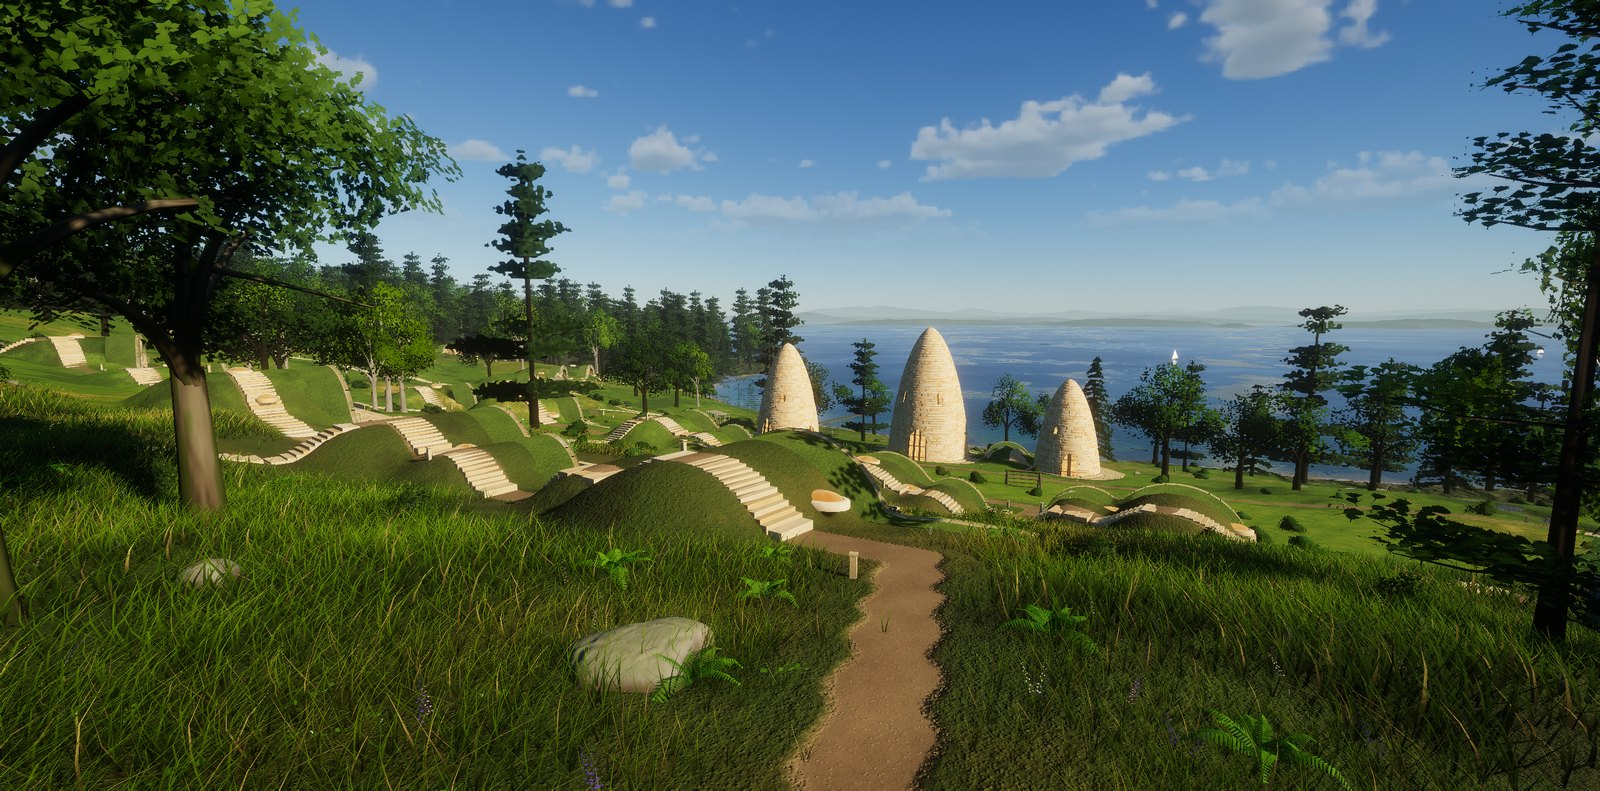
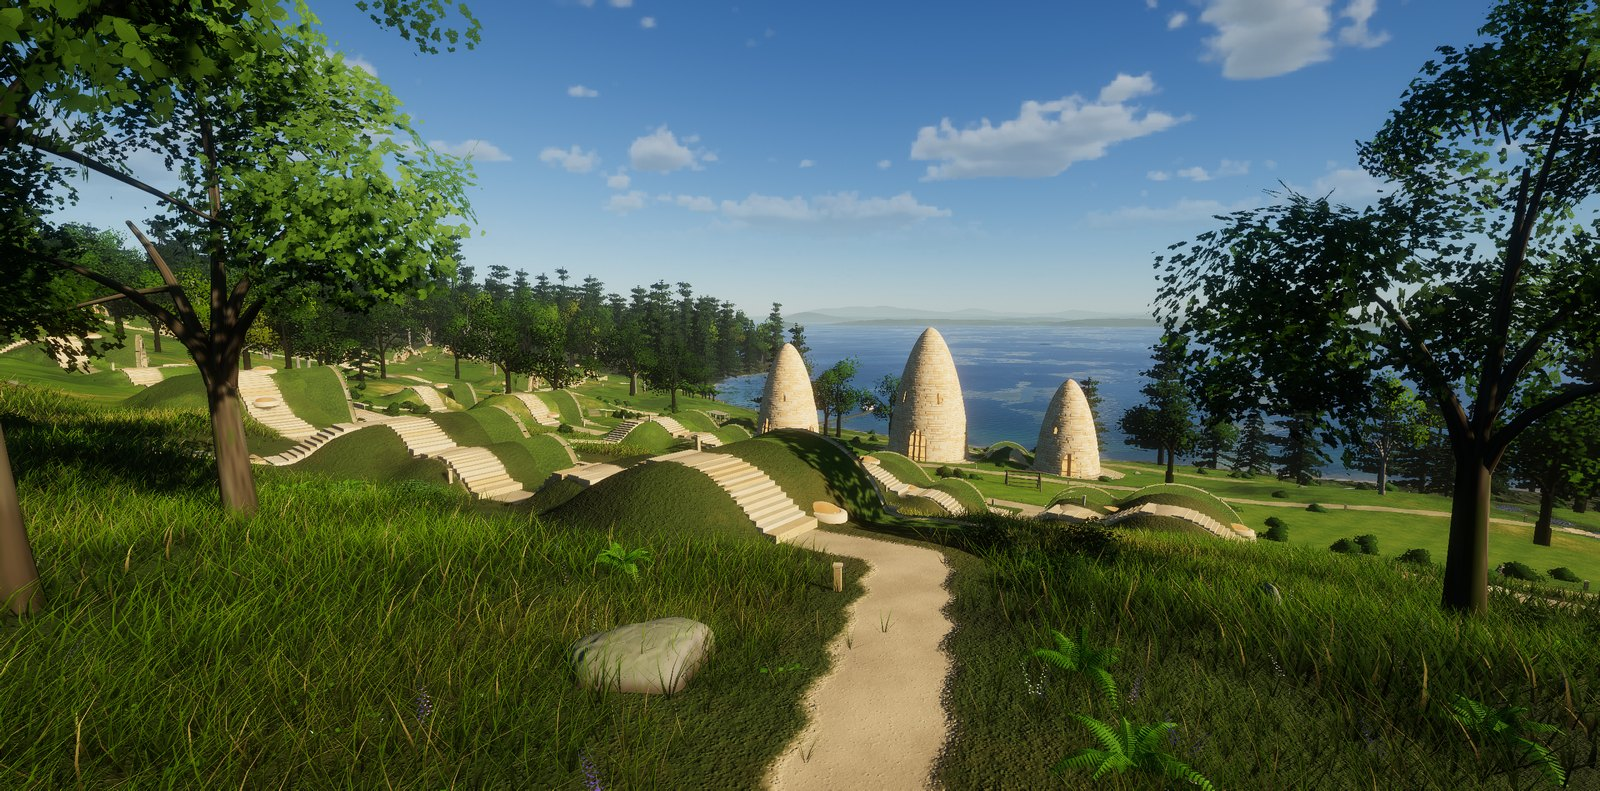
Nine more homes: a fourth row on each hillside, one more west of the stream
The layout image's hillsides are lined with homes; ours had three rows of five
on hillside A and short rows on B, leaving wide empty meadow. Row 4 under the
woods on A (five homes), row 4 on B (three) and a third home west of the stream,
with stair walks up to them and the clearing widened to take them. Debug views
row4 and hillB look at the new rows; key art and screenshots re-rendered (the
opening view is now framed by two trees).

diff --git a/src/world/settlement/Plan.js b/src/world/settlement/Plan.js
@@ -33,9 +33,16 @@ export const HOMES = [
 	{ id: 'A3c', x: 380, z: - 412, yaw: - 0.04, span: 7.0, rise: 3.8, depth: 9, side: [ [ 6.6, 4.0, 2.6 ] ], terrace: 5, skylights: 2 },
 	{ id: 'A3d', x: 407, z: - 414, yaw: - 0.1, span: 8.0, rise: 4.2, depth: 9.5, side: [], terrace: 5.5, skylights: 2 },
 	{ id: 'A3e', x: 434, z: - 418, yaw: - 0.18, span: 7.4, rise: 4.0, depth: 9, side: [ [ - 7.0, 4.2, 2.6 ] ], terrace: 5, skylights: 1 },
+	// ---- hillside A, row 4 (~36-45 m), the top row under the woods
+	{ id: 'A4a', x: 338, z: - 444, yaw: 0.0, span: 7.8, rise: 4.1, depth: 9, side: [ [ 7.2, 4.2, 2.7 ] ], terrace: 5, skylights: 2 },
+	{ id: 'A4b', x: 366, z: - 447, yaw: - 0.25, span: 7.2, rise: 3.9, depth: 9, side: [ [ - 6.8, 4.0, 2.6 ] ], terrace: 5, skylights: 2, seam: true },
+	{ id: 'A4c', x: 394, z: - 449, yaw: 0.12, span: 8.4, rise: 4.4, depth: 10, side: [ [ - 7.6, 4.2, 2.7 ], [ 7.6, 4.2, 2.7 ] ], terrace: 5.5, skylights: 3 },
+	{ id: 'A4d', x: 422, z: - 451, yaw: - 0.2, span: 7.4, rise: 4.0, depth: 9, side: [ [ 6.9, 4.0, 2.6 ] ], terrace: 5, skylights: 2 },
+	{ id: 'A4e', x: 448, z: - 454, yaw: - 0.25, span: 7.0, rise: 3.8, depth: 8.5, side: [], terrace: 5, skylights: 1, seam: true },
 	// ---- hillside A west of the stream, facing south-east over the pond
 	{ id: 'AWa', x: 226, z: - 356, yaw: 0.38, span: 7.6, rise: 4.0, depth: 9, side: [ [ 7.0, 4.0, 2.6 ] ], terrace: 5.5, skylights: 2, seam: true },
 	{ id: 'AWb', x: 238, z: - 392, yaw: 0.3, span: 8.0, rise: 4.2, depth: 9.5, side: [ [ - 7.2, 4.2, 2.7 ] ], terrace: 5, skylights: 2 },
+	{ id: 'AWc', x: 262, z: - 428, yaw: - 0.25, span: 7.6, rise: 4.0, depth: 9, side: [ [ 6.8, 4.0, 2.6 ] ], terrace: 5, skylights: 2 },
 	// ---- hillside B, facing south-west over the gardens and the cove
 	{ id: 'B1a', x: 449, z: - 304, yaw: - 0.72, span: 7.6, rise: 4.0, depth: 9, side: [ [ 7.0, 4.0, 2.6 ] ], terrace: 5.5, skylights: 2 },
 	{ id: 'B1b', x: 470, z: - 281, yaw: - 0.8, span: 8.2, rise: 4.3, depth: 9.5, side: [ [ - 7.4, 4.2, 2.7 ] ], terrace: 6, skylights: 2, seam: true },
@@ -45,6 +52,9 @@ export const HOMES = [
 	{ id: 'B2c', x: 538, z: - 283, yaw: - 0.86, span: 8.4, rise: 4.4, depth: 10, side: [ [ 7.6, 4.4, 2.8 ] ], terrace: 6, skylights: 3 },
 	{ id: 'B3a', x: 512, z: - 362, yaw: - 0.6, span: 7.6, rise: 4.0, depth: 9, side: [ [ 7.0, 4.2, 2.6 ] ], terrace: 5, skylights: 2 },
 	{ id: 'B3b', x: 538, z: - 340, yaw: - 0.7, span: 8.0, rise: 4.2, depth: 9.5, side: [], terrace: 5.5, skylights: 2, seam: true },
+	{ id: 'B4a', x: 532, z: - 392, yaw: - 0.45, span: 7.6, rise: 4.0, depth: 9, side: [ [ 7.0, 4.0, 2.6 ] ], terrace: 5, skylights: 2 },
+	{ id: 'B4b', x: 557, z: - 369, yaw: - 0.55, span: 8.0, rise: 4.2, depth: 9.5, side: [ [ - 7.2, 4.2, 2.7 ] ], terrace: 5.5, skylights: 2, seam: true },
+	{ id: 'B4c', x: 580, z: - 346, yaw: - 0.7, span: 7.2, rise: 3.9, depth: 9, side: [], terrace: 5, skylights: 1 },
 ];
 
 // The communal buildings: tall catenary shells of the same stone, between the green and the cove.
@@ -65,8 +75,8 @@ export const PLAZA = [ [ 300, - 268 ], [ 330, - 262 ], [ 365, - 266 ], [ 392, - 
 // The village clearing: the tended land the homes stand in (meadows, scattered trees, gardens); the forest
 // closes in beyond it (a ragged edge, see Settlement)
 export const CLEARING = [
-	[ 196, - 252 ], [ 192, - 300 ], [ 186, - 352 ], [ 200, - 405 ], [ 246, - 440 ], [ 300, - 448 ], [ 362, - 450 ], [ 424, - 454 ],
-	[ 470, - 440 ], [ 518, - 404 ], [ 566, - 376 ], [ 580, - 330 ], [ 566, - 274 ], [ 534, - 236 ], [ 500, - 206 ], [ 446, - 226 ],
+	[ 196, - 252 ], [ 192, - 300 ], [ 186, - 352 ], [ 200, - 405 ], [ 240, - 452 ], [ 300, - 468 ], [ 362, - 474 ], [ 424, - 478 ],
+	[ 476, - 466 ], [ 530, - 420 ], [ 582, - 392 ], [ 604, - 340 ], [ 572, - 274 ], [ 534, - 236 ], [ 500, - 206 ], [ 446, - 226 ],
 	[ 404, - 244 ], [ 340, - 252 ], [ 280, - 246 ],
 ];
 
@@ -142,11 +152,19 @@ export const PATHS = [
 	// west of the stream: the pond, the two homes there
 	{ w: 1.25, pts: [ [ 258, - 287 ], [ 240, - 290 ], [ 219, - 298 ], [ 208, - 316 ], [ 213, - 336 ], [ 232, - 347 ], [ 252, - 352 ], [ 269, - 356 ] ] },
 	{ w: 1.15, pts: [ [ 213, - 336 ], [ 220, - 362 ], [ 236, - 382 ], [ 262, - 396 ], [ 289, - 405 ] ] },
+	// up to row 4 (from the walk behind row 3, between the homes)
+	{ w: 1.25, pts: [ [ 352, - 419 ], [ 352, - 432 ], [ 351, - 446 ] ] },
+	{ w: 1.25, pts: [ [ 408, - 425 ], [ 408, - 438 ], [ 408, - 450 ] ] },
+	{ w: 1.25, pts: [ [ 448, - 429 ], [ 440, - 440 ], [ 436, - 450 ] ] },
+	// west of the stream, up to the top home
+	{ w: 1.15, pts: [ [ 262, - 396 ], [ 260, - 410 ], [ 262, - 421 ] ] },
 	// the plaza to the gardens and up hillside B
 	{ w: 1.35, pts: [ [ 392, - 276 ], [ 404, - 286 ], [ 418, - 300 ], [ 436, - 312 ], [ 446, - 296 ], [ 462, - 276 ], [ 484, - 252 ], [ 498, - 214 ] ] },
 	{ w: 1.25, pts: [ [ 436, - 312 ], [ 456, - 326 ], [ 480, - 338 ], [ 500, - 318 ], [ 524, - 296 ], [ 548, - 274 ] ] },
 	{ w: 1.25, pts: [ [ 480, - 338 ], [ 500, - 368 ], [ 520, - 352 ], [ 546, - 330 ] ] },
 	{ w: 1.25, pts: [ [ 418, - 351 ], [ 436, - 340 ], [ 456, - 326 ] ] },
+	// hillside B, row 4: a walk in front of its terraces
+	{ w: 1.25, pts: [ [ 500, - 368 ], [ 514, - 380 ], [ 530, - 384 ], [ 548, - 366 ], [ 566, - 346 ], [ 576, - 336 ] ] },
 	// the dock
 	{ w: 1.0, pave: true, pts: [ [ 401, - 252 ], [ 400, - 247 ] ] },
 ];

diff --git a/src/core/DebugViews.js b/src/core/DebugViews.js
@@ -66,6 +66,10 @@ export const VIEWS = {
 	sailing: { p: [ 340, 2.2, 182 ], yaw: - 0.6, pitch: 0.03, time: 16.0 },
 	// across the lake to the hamlet on the point, from the end of the dock
 	hamlet: { p: [ 400.5, 1.8, - 212 ], agl: true, yaw: 2.05, pitch: 0.02, time: 17.0 },
+	// the top row of hillside A from the walk behind row 3
+	row4: { p: [ 380, 1.7, - 427 ], agl: true, yaw: 0.1, pitch: 0.08, time: 15.5 },
+	// hillside B's upper rows from the gardens' side
+	hillB: { p: [ 488, 2.0, - 352 ], agl: true, yaw: - 1.7, pitch: 0.06, time: 16.0 },
 	// a loon (the first of the wildlife's), seen from a few metres off on the water: p is the offset from it
 	loon: { follow: 'loon', p: [ 3.6, 0.55, 0.9 ], pitch: - 0.1, time: 16.0 },
 	loonPair: { follow: 'loon', p: [ 8, 1.4, 6 ], pitch: - 0.1, time: 16.0 },

diff --git a/docs/DECISIONS.md b/docs/DECISIONS.md
@@ -20,9 +20,9 @@ Each is easy to reverse; the file or setting is named.
 
 ## The village
 
-- **Size.** 26 earth homes (24 houses and two small vaults by the halls) in three rows on the north hillside
-  (A), two west of the stream, three short rows on the east hillside (B). The layout image shows more homes;
-  this is a first neighbourhood, easy to extend in `Plan.js`.
+- **Size.** 35 earth homes (33 houses and two small vaults by the halls): four rows on the north hillside (A),
+  three west of the stream, four short rows on the east hillside (B), with six more in the hamlet across the
+  water. The layout image packs in more; easy to extend in `Plan.js`.
 - **Homes.** One main arch (7–9 m span, ~4 m rise) with up to two smaller side arches; vault 8.5–10 m deep
   into the hill; a flagged terrace 4–5 m deep; 1–3 oval skylights in the planted roof. Floors are set ~0.45 m
   below the natural ground so terraces need little fill (lower retaining walls).

diff --git a/README.md b/README.md
@@ -34,7 +34,7 @@ water, terrain, vegetation, lighting and post-processing it reuses and adapts.
 - New Hampshire granite: ledges and talus under Rattlesnake's cliffs, boulder-strewn shores, glacial erratics.
 
 **The village** (`src/world/Settlement.js`, layout as data in `src/world/settlement/Plan.js`)
-- 24 earth homes on two hillsides: broad stone arches with glazed timber fronts and warm rooms behind, the
+- 33 earth homes on two hillsides: broad stone arches with glazed timber fronts and warm rooms behind, the
   vaults buried under planted mounds with oval skylights, flagged terraces, vines spilling over the arches,
   pots of plants; on some doors the pale blue seam of everyday technology.
 - Three tall catenary halls between the green and the cove, with framed great windows.
